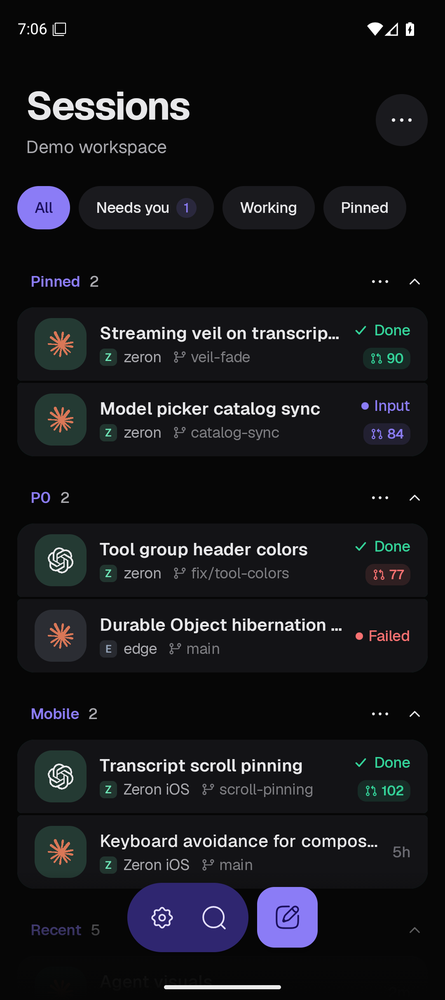
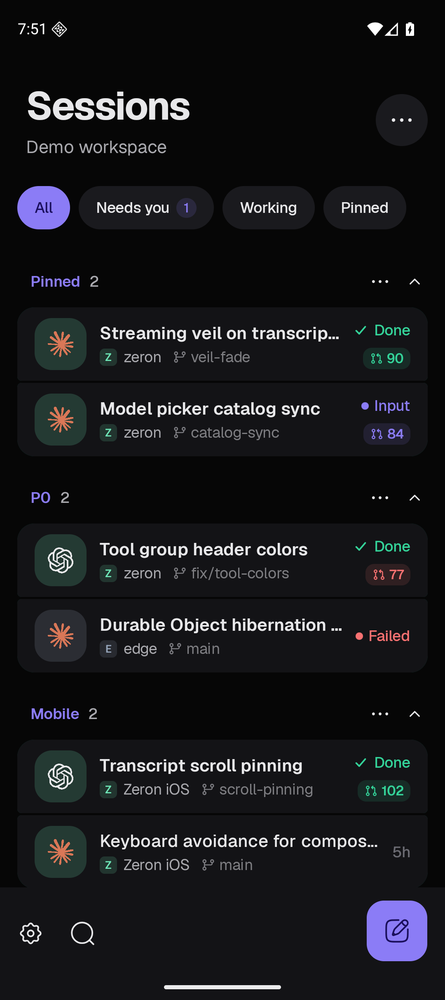
Android: Material 3 bottom app bar on the Sessions page
Settings, Search and voice as the bar's actions, New session as its FAB;
the bar slides away while the list scrolls down. Replaces the floating
toolbar, which sat small and centred over the list.

diff --git a/apps/android/app/src/main/java/sh/zeron/android/ui/ZeronRoot.kt b/apps/android/app/src/main/java/sh/zeron/android/ui/ZeronRoot.kt
@@ -19,8 +19,9 @@ import androidx.compose.foundation.layout.padding
 import androidx.compose.foundation.layout.size
 import androidx.compose.foundation.layout.width
 import androidx.compose.material3.ExperimentalMaterial3ExpressiveApi
-import androidx.compose.material3.FloatingToolbarDefaults
-import androidx.compose.material3.HorizontalFloatingToolbar
+import androidx.compose.material3.BottomAppBar
+import androidx.compose.material3.BottomAppBarDefaults
+import androidx.compose.material3.FloatingActionButton
 import androidx.compose.material3.IconButton
 import androidx.compose.material3.MaterialTheme
 import androidx.compose.material3.PlainTooltip
@@ -45,8 +46,6 @@ import androidx.compose.runtime.saveable.rememberSaveable
 import androidx.compose.runtime.setValue
 import androidx.compose.ui.Alignment
 import androidx.compose.ui.Modifier
-import androidx.compose.ui.geometry.Offset
-import androidx.compose.ui.graphics.Brush
 import androidx.compose.ui.graphics.Color
 import androidx.compose.ui.input.key.Key
 import androidx.compose.ui.input.key.KeyEventType
@@ -56,8 +55,6 @@ import androidx.compose.ui.input.key.isShiftPressed
 import androidx.compose.ui.input.key.key
 import androidx.compose.ui.input.key.onPreviewKeyEvent
 import androidx.compose.ui.input.key.type
-import androidx.compose.ui.input.nestedscroll.NestedScrollConnection
-import androidx.compose.ui.input.nestedscroll.NestedScrollSource
 import androidx.compose.ui.input.nestedscroll.nestedScroll
 import androidx.compose.ui.unit.dp
 import androidx.navigation.NavHostController
@@ -301,72 +298,53 @@ private fun androidx.compose.foundation.layout.BoxScope.Toasts(model: AppModel, 
 }
 
 /**
- * The front page: the Sessions list under a Material 3 Expressive floating
- * toolbar — Settings, Search and voice, with New session as its FAB (iOS's
- * bottom bar: Settings · Search · voice · New session). Scrolling down the
- * list tucks the toolbar away to just the FAB; scrolling up brings it back.
+ * The front page: the Sessions list over a Material 3 bottom app bar —
+ * Settings, Search and voice as its actions, New session as its FAB (iOS's
+ * bottom bar: Settings · Search · voice · New session). The bar slides away
+ * while the list scrolls down and comes back on the way up.
  */
-@OptIn(ExperimentalMaterial3ExpressiveApi::class)
+@OptIn(ExperimentalMaterial3ExpressiveApi::class, androidx.compose.material3.ExperimentalMaterial3Api::class)
 @Composable
 private fun Home(model: AppModel, nav: NavHostController, open: (String) -> Unit, selected: String? = null) {
-    var expanded by rememberSaveable { mutableStateOf(true) }
-    val collapse = remember {
-        object : NestedScrollConnection {
-            override fun onPreScroll(available: Offset, source: NestedScrollSource): Offset {
-                if (available.y < -8f) expanded = false else if (available.y > 8f) expanded = true
-                return Offset.Zero
-            }
-        }
-    }
+    val bar = BottomAppBarDefaults.exitAlwaysScrollBehavior()
     Box(Modifier.fillMaxSize().background(MaterialTheme.colorScheme.background)) {
-        Box(Modifier.fillMaxSize().nestedScroll(collapse)) {
+        Box(Modifier.fillMaxSize().nestedScroll(bar.nestedScrollConnection)) {
             SessionsScreen(model, onOpen = open, onArchived = { nav.navigate(Routes.ARCHIVED) }, selected = selected)
         }
-        // A soft scrim so rows fade out under the toolbar.
-        Box(
-            Modifier
-                .align(Alignment.BottomCenter)
-                .fillMaxWidth()
-                .height(120.dp)
-                .background(Brush.verticalGradient(0f to Color.Transparent, 0.7f to MaterialTheme.colorScheme.background.copy(alpha = 0.92f), 1f to MaterialTheme.colorScheme.background)),
-        )
         val voice = sh.zeron.android.voice.rememberVoiceVisible(model.voice)
-        HorizontalFloatingToolbar(
-            expanded = expanded,
+        BottomAppBar(
+            actions = {
+                Tip("Settings") {
+                    IconButton(onClick = { nav.navigate(Routes.SETTINGS) }) { ZIcon(ZIcons.Settings, "Settings", Modifier.size(24.dp)) }
+                }
+                Tip("Search") {
+                    IconButton(onClick = { nav.navigate(Routes.SEARCH) }) { ZIcon(ZIcons.Search, "Search", Modifier.size(24.dp)) }
+                }
+                if (voice) {
+                    // Tap calls (or opens the live call); hold picks the host and style.
+                    sh.zeron.android.voice.VoiceHeaderButton(
+                        model.voice,
+                        onOpenStage = { nav.navigate(Routes.VOICE) { launchSingleTop = true } },
+                        onOpenSettings = { nav.navigate(Routes.VOICE_SETTINGS) },
+                        size = 48.dp,
+                        container = Color.Transparent,
+                    )
+                }
+            },
             floatingActionButton = {
                 Tip("New session") {
-                    FloatingToolbarDefaults.VibrantFloatingActionButton(
+                    FloatingActionButton(
                         onClick = { nav.navigate(Routes.NEW) },
                         containerColor = MaterialTheme.colorScheme.primary,
                         contentColor = MaterialTheme.colorScheme.onPrimary,
-                    ) {
-                        ZIcon(ZIcons.NewSession, "New session", Modifier.size(24.dp))
-                    }
+                        elevation = androidx.compose.material3.FloatingActionButtonDefaults.bottomAppBarFabElevation(),
+                    ) { ZIcon(ZIcons.NewSession, "New session", Modifier.size(24.dp)) }
                 }
             },
-            colors = FloatingToolbarDefaults.vibrantFloatingToolbarColors(),
-            modifier = Modifier
-                .align(Alignment.BottomCenter)
-                .navigationBarsPadding()
-                .padding(bottom = 12.dp),
-        ) {
-            Tip("Settings") {
-                IconButton(onClick = { nav.navigate(Routes.SETTINGS) }) { ZIcon(ZIcons.Settings, "Settings", Modifier.size(24.dp)) }
-            }
-            Tip("Search") {
-                IconButton(onClick = { nav.navigate(Routes.SEARCH) }) { ZIcon(ZIcons.Search, "Search", Modifier.size(24.dp)) }
-            }
-            if (voice) {
-                // Tap calls (or opens the live call); hold picks the host and style.
-                sh.zeron.android.voice.VoiceHeaderButton(
-                    model.voice,
-                    onOpenStage = { nav.navigate(Routes.VOICE) { launchSingleTop = true } },
-                    onOpenSettings = { nav.navigate(Routes.VOICE_SETTINGS) },
-                    size = 40.dp,
-                    container = Color.Transparent,
-                )
-            }
-        }
+            containerColor = MaterialTheme.colorScheme.surfaceContainer,
+            scrollBehavior = bar,
+            modifier = Modifier.align(Alignment.BottomCenter),
+        )
     }
 }
 
